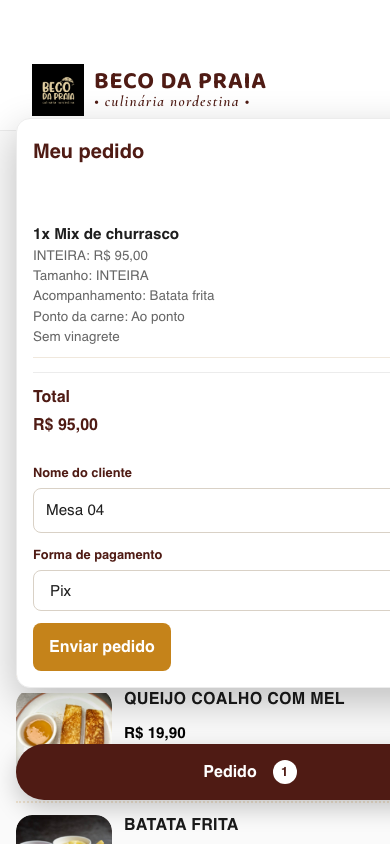
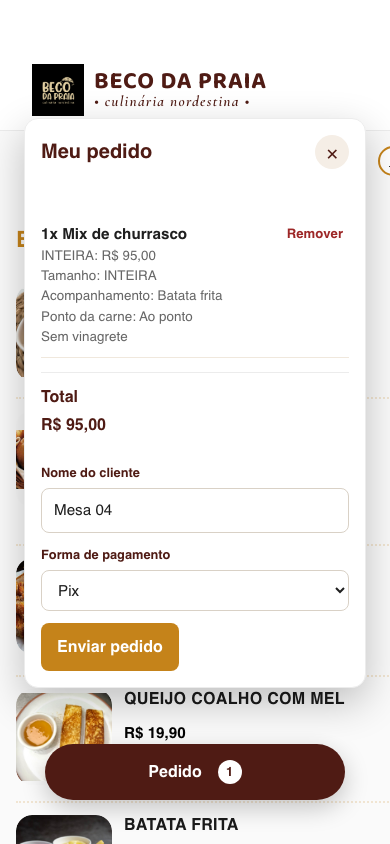
fix: center mobile floating actions in screenshots

diff --git a/style.css b/style.css
@@ -2579,6 +2579,8 @@
         --app-safe-top: max(env(safe-area-inset-top), 44px);
         --app-safe-bottom: max(env(safe-area-inset-bottom), 24px);
         --app-side: 16px;
+        --app-floating-control-width: 300px;
+        --app-floating-panel-width: 320px;
       }
 
       body.screenshot-mode {
@@ -2722,17 +2724,23 @@
       }
 
       .pedido-carrinho {
-        right: var(--app-side);
+        right: 0;
         bottom: calc(var(--app-safe-bottom) + 10px);
-        left: var(--app-side);
+        left: 0;
         display: flex;
         justify-content: center;
+        padding-right: var(--app-side);
+        padding-left: var(--app-side);
       }
 
       .pedido-carrinho-toggle {
-        width: 100%;
-        max-width: 520px;
+        width: var(--app-floating-control-width) !important;
+        max-width: calc(100% - 64px) !important;
+        min-width: 0 !important;
+        flex: 0 0 auto;
         min-height: 56px;
+        margin-right: auto;
+        margin-left: auto;
         display: inline-flex;
         align-items: center;
         justify-content: center;
@@ -2742,10 +2750,12 @@
       }
 
       .pedido-carrinho-painel {
-        right: 0;
-        left: 0;
+        right: auto;
+        left: 50%;
+        transform: translateX(-50%);
         bottom: calc(78px + var(--app-safe-bottom));
-        width: 100%;
+        width: var(--app-floating-panel-width);
+        max-width: calc(100% - 32px);
         max-height: calc(100vh - var(--app-safe-top) - 96px);
         border-radius: 14px;
       }
@@ -2812,12 +2822,16 @@
       .detalhe-acao-wrap {
         display: flex;
         justify-content: center;
-        padding: 12px var(--app-side) calc(var(--app-safe-bottom) + 10px);
+        padding: 12px 0 calc(var(--app-safe-bottom) + 10px);
       }
 
       .detalhe-adicionar {
-        width: 100%;
-        max-width: 520px;
+        width: var(--app-floating-control-width) !important;
+        max-width: calc(100% - 64px) !important;
+        min-width: 0 !important;
+        flex: 0 0 auto;
+        margin-right: auto;
+        margin-left: auto;
       }
 
       .pix-qrcode {
@@ -2869,6 +2883,44 @@
       body.screenshot-mode .mainCard {
         padding-right: 16px !important;
         padding-left: 16px !important;
+      }
+
+      body.screenshot-mode .pedido-carrinho {
+        right: auto !important;
+        left: 0 !important;
+        width: 390px !important;
+        padding-right: 0 !important;
+        padding-left: 0 !important;
+      }
+
+      body.screenshot-mode .pedido-carrinho-toggle {
+        width: 300px !important;
+        max-width: 300px !important;
+        margin-right: 45px !important;
+        margin-left: 45px !important;
+      }
+
+      body.screenshot-mode .pedido-carrinho-painel {
+        right: auto !important;
+        left: 24px !important;
+        width: 342px !important;
+        max-width: 342px !important;
+        transform: none !important;
+      }
+
+      body.screenshot-mode .detalhe-acao-wrap {
+        right: auto !important;
+        left: 0 !important;
+        width: 390px !important;
+        padding-right: 0 !important;
+        padding-left: 0 !important;
+      }
+
+      body.screenshot-mode .detalhe-adicionar {
+        width: 300px !important;
+        max-width: 300px !important;
+        margin-right: 45px !important;
+        margin-left: 45px !important;
       }
 
       body.screenshot-mode .produtoContainer .divCardProduto {
